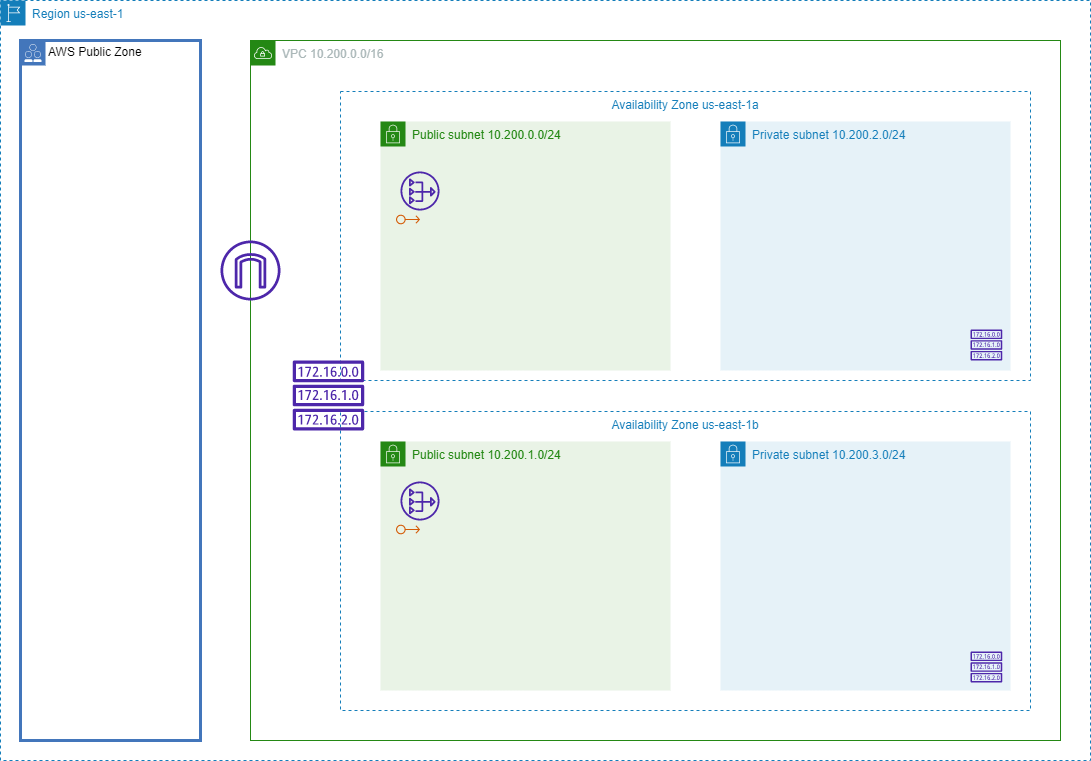
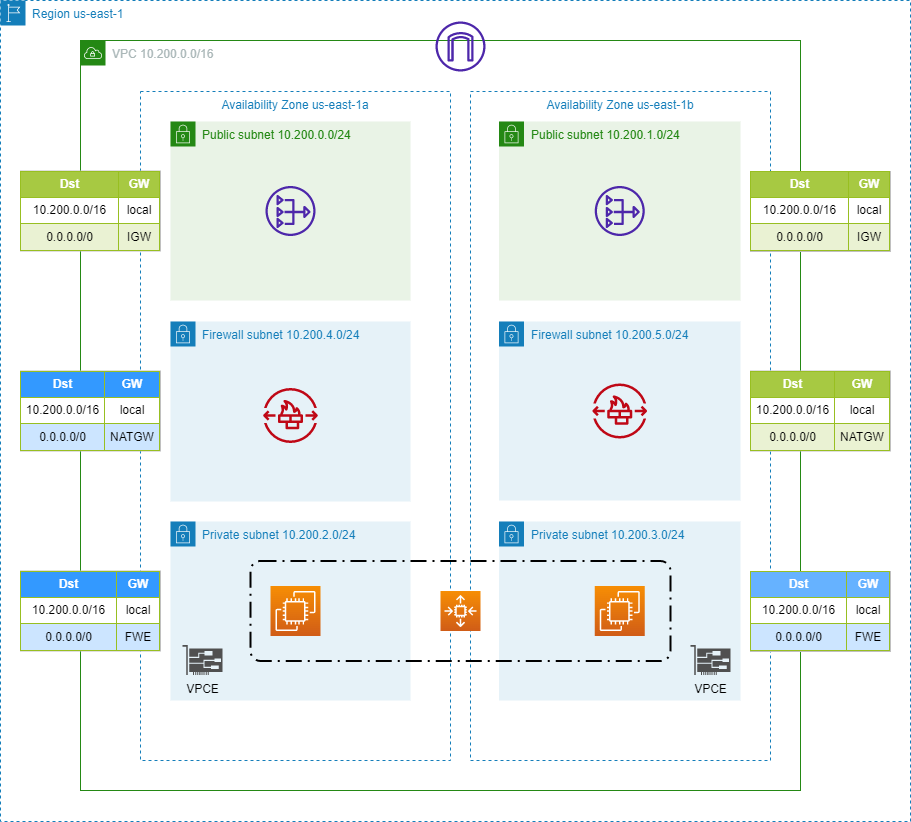
New diagram

diff --git a/README.md b/README.md
@@ -2,5 +2,7 @@
 
 
     The above code is meant to use in the us-east-1 region.
+    EC2 instances and ASG not included in the code.
+    NAT-GW are disabled by default, they can be enabled in tfvars file.
 
 ![image](./images/diagram.jpg)
